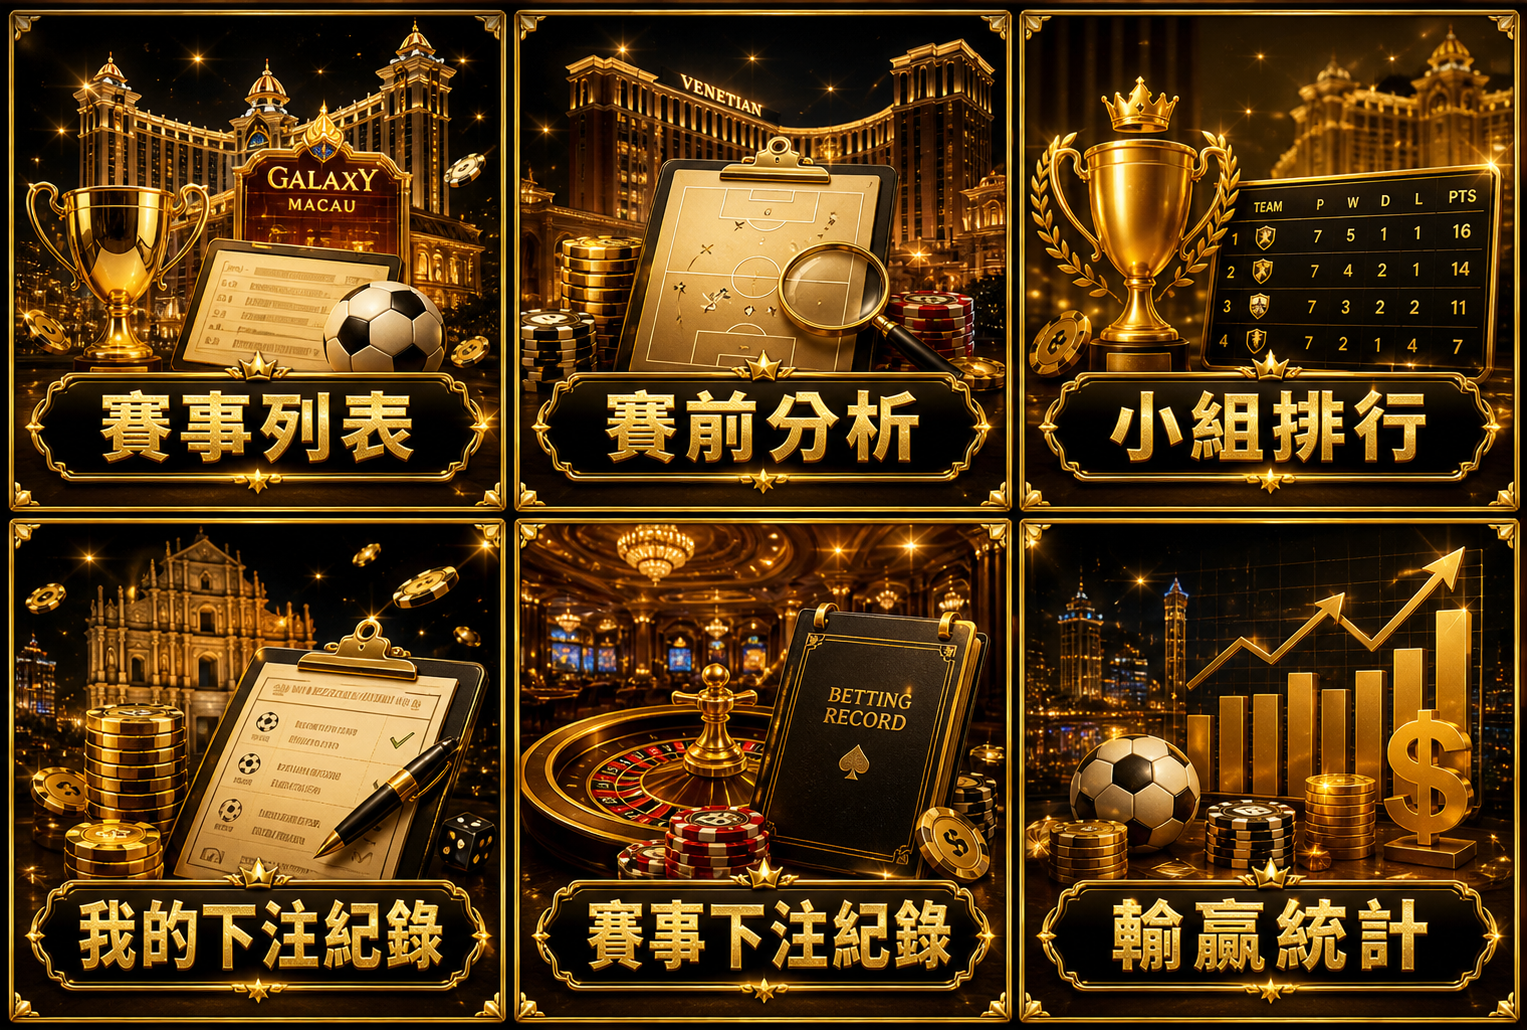
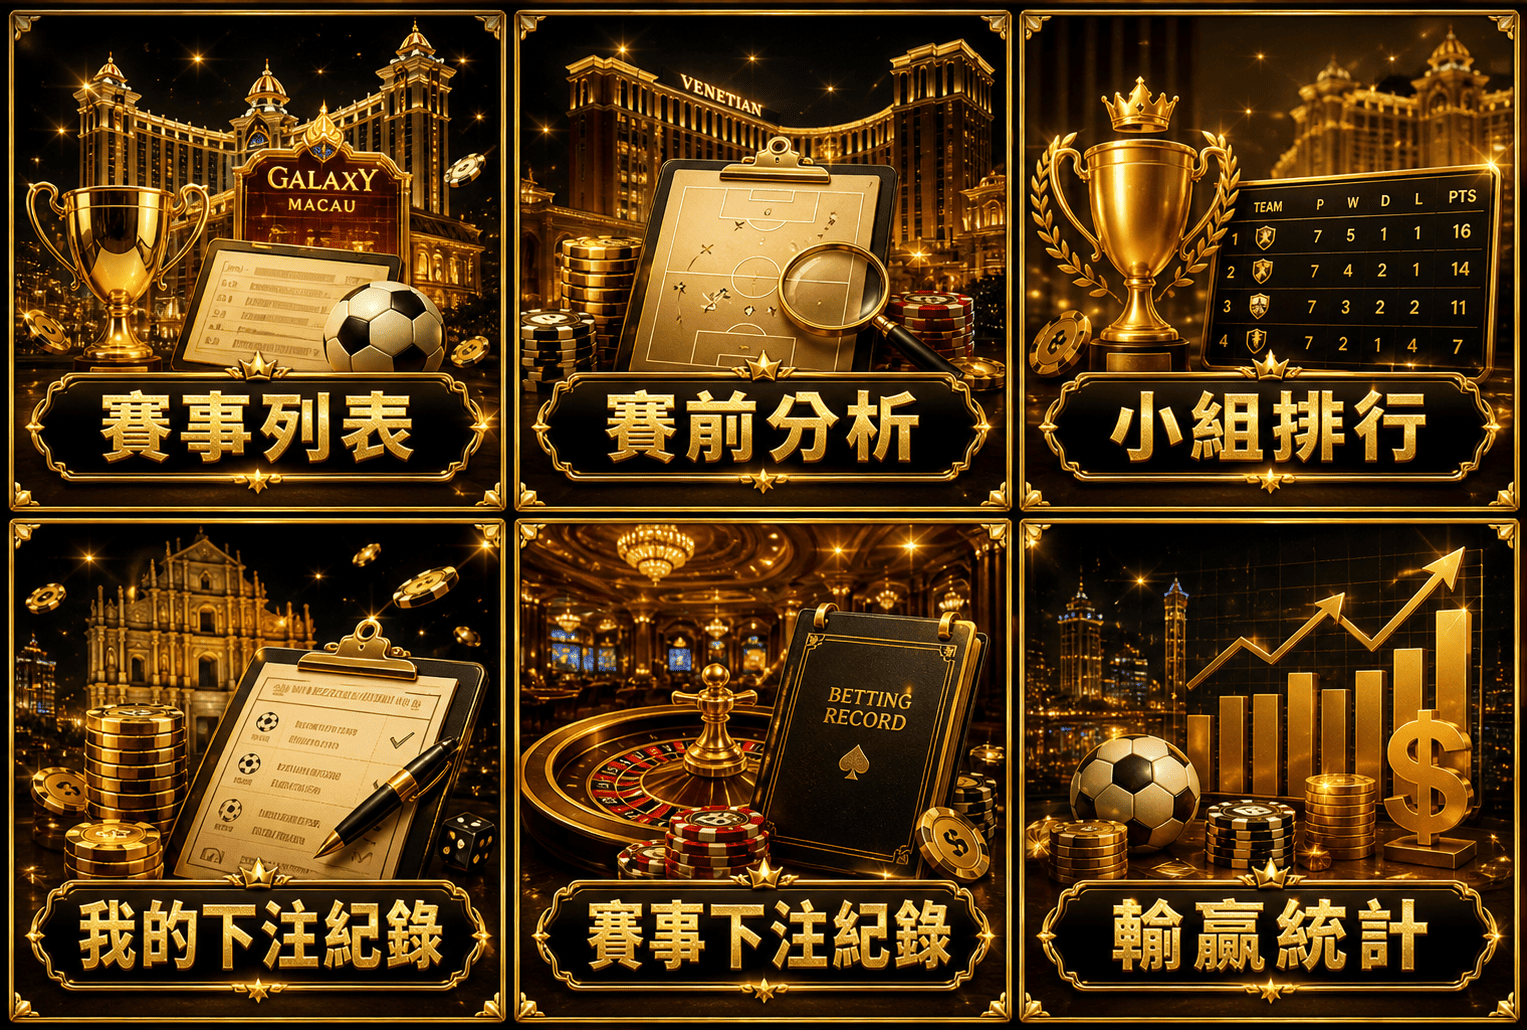
0505v6

Changed region(s): [[0.4309, 0.6214, 0.4925, 0.6524], [0.6156, 0.2796, 0.6464, 0.3107], [0.3694, 0.6214, 0.4001, 0.6524]]

diff --git a/scripts/sync-matches.js b/scripts/sync-matches.js
@@ -2,6 +2,8 @@ require('dotenv').config();
 const { createClient } = require('@supabase/supabase-js');
 const axios = require('axios');
 const dayjs = require('dayjs');
+const utc = require('dayjs/plugin/utc');
+const timezone = require('dayjs/plugin/timezone');
 
 const supabase = createClient(process.env.SUPABASE_URL, process.env.SUPABASE_KEY);
 const FOOTBALL_DATA_API_KEY = process.env.FOOTBALL_DATA_API_KEY;
@@ -9,10 +11,13 @@ const FOOTBALL_DATA_API_KEY = process.env.FOOTBALL_DATA_API_KEY;
 async function syncMatchesToDatabase(apiMatches) {
   if (!apiMatches?.length) return;
 
+  dayjs.extend(utc);
+  dayjs.extend(timezone);
+
   const rows = apiMatches.map((match, index) => ({
     id: match.id,
     seq_no: index + 1,
-    match_date: dayjs(match.utcDate).format('YYYY-MM-DD HH:mm'),
+    match_date: dayjs(match.utcDate).tz('Asia/Taipei').format('YYYY-MM-DD HH:mm'),
     label: `${match.homeTeam?.name || 'TBD'} vs ${match.awayTeam?.name || 'TBD'}`,
     home_team_name: match.homeTeam?.name || 'TBD',
     away_team_name: match.awayTeam?.name || 'TBD',